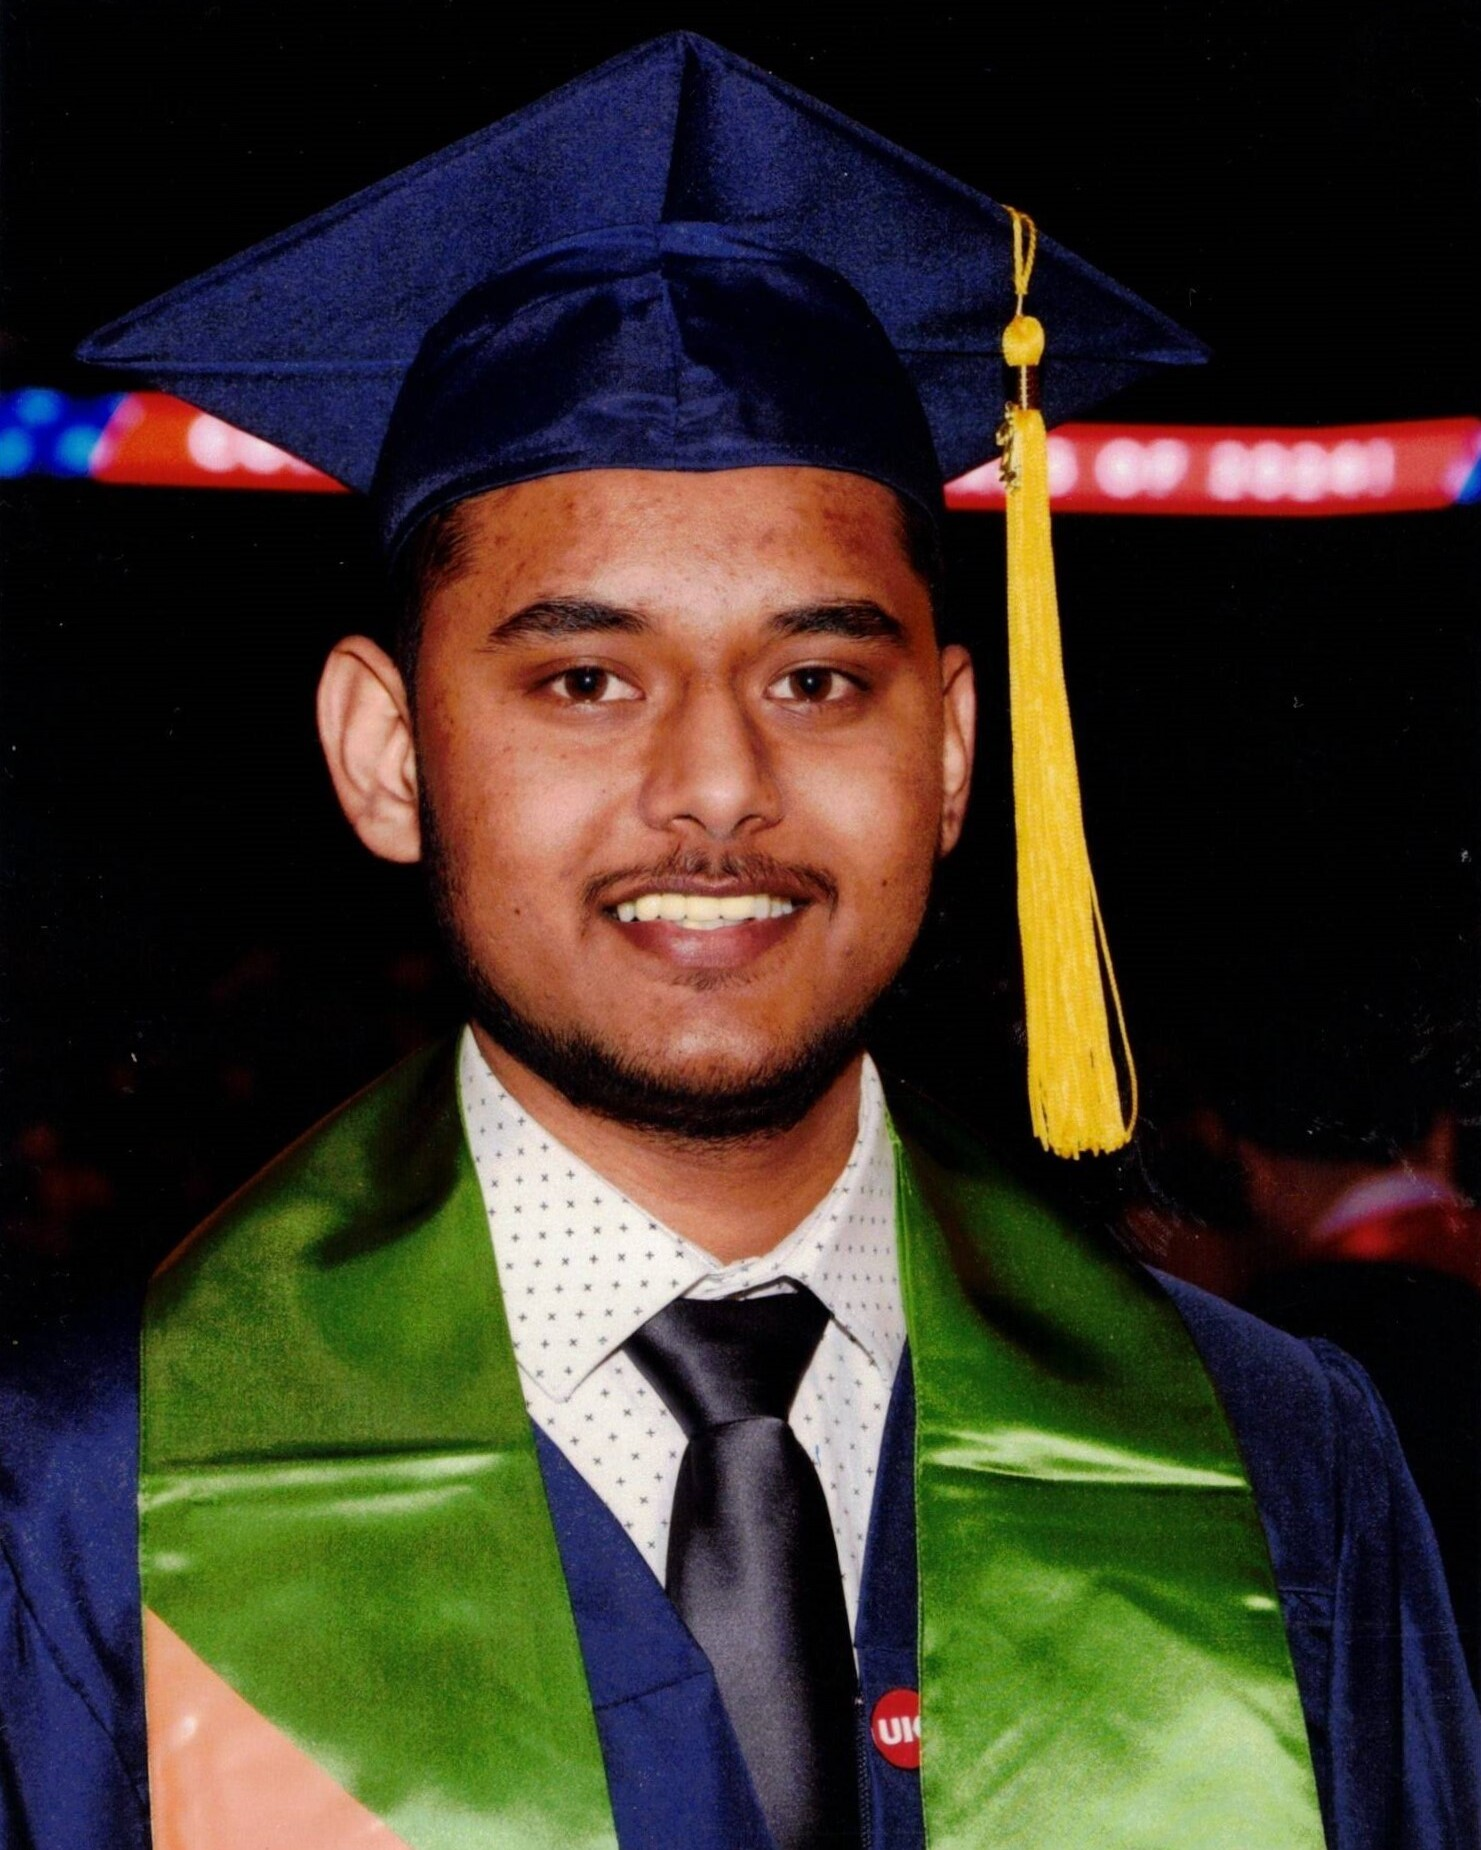
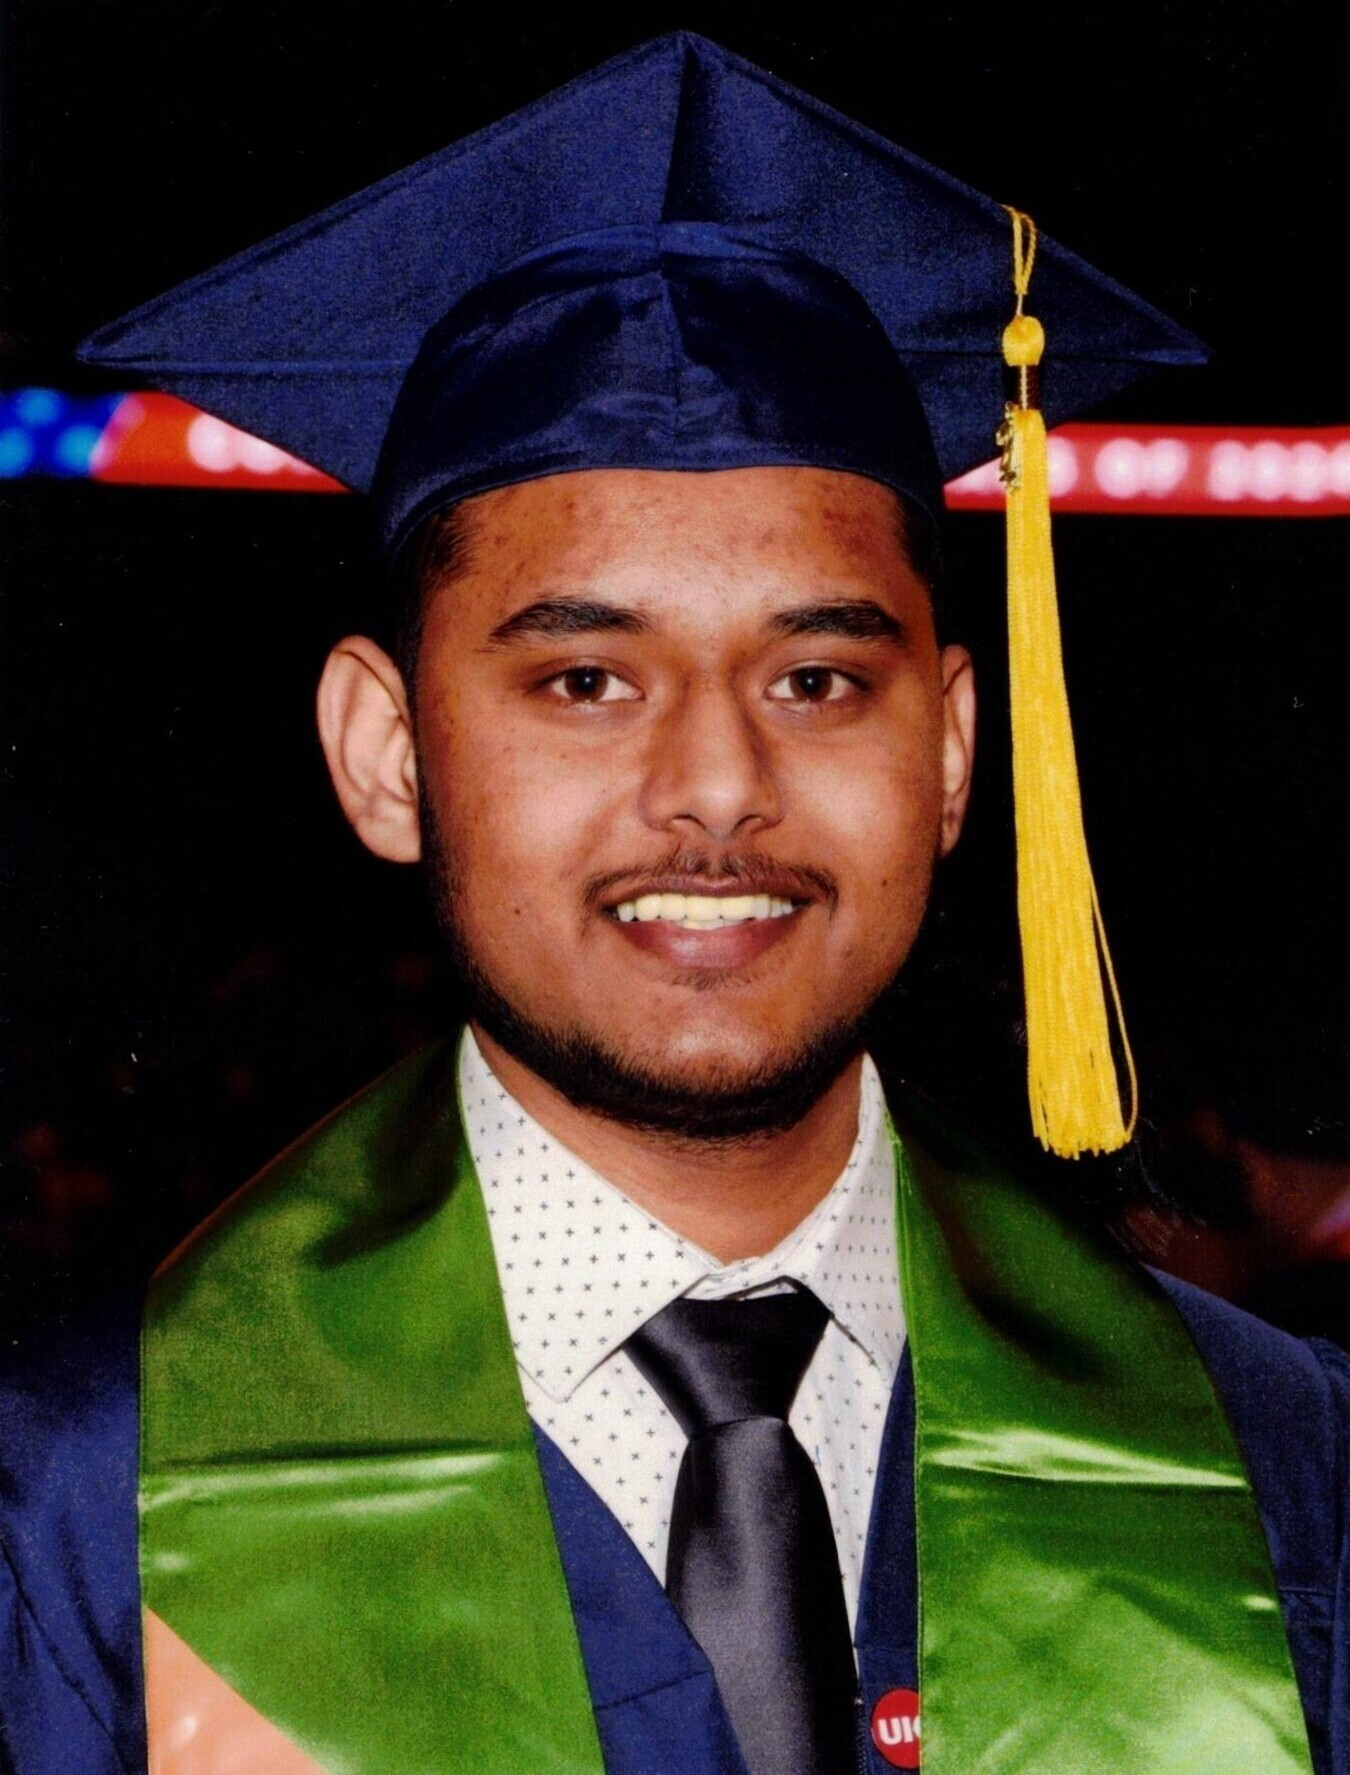
Photo Done

diff --git a/index.html b/index.html
@@ -125,7 +125,7 @@
               src="./images/pratik.jpg"
               alt="Profile Image"
               width="450"
-              height="350"
+              height="450"
             />
           </div>
           <div class="about-wrapper__info">
@@ -136,7 +136,7 @@
               obtain live stock data feed and show it on the platform for traders.
             </p>
             <p class="about-wrapper__info-text">
-              .....
+              ...
             </p>
             <span class="about-wrapper__cta">
               <a href="https://drive.google.com/file/d/1FVb3T1hpIgLDgsb55Mk7k6_jOBAn2h9Q/view?usp=sharing" class="cta-btn cta-btn--resume" target="_blank">View Resume</a>
